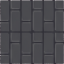
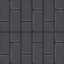
Force tile alpha to 255 and despill purple shadows over the whole sprite
Tile PNGs (wall/floor_a/floor_b) came out of Resample with partial-alpha
edge pixels since alpha is averaged straight, letting the camera
background show through as a seam grid. Add SpriteSheetSlicer.Opaque and
apply it after Resample for tiles only.

The despill colour guard already identifies magenta-biased pixels
correctly but was confined to a band near transparency, missing the
purple foot-shadow blob that sits deep in the player sprites' interior.
Add an explicit despillWholeSprite option (default on) that runs the
same colour-safe guard over every opaque pixel instead.

diff --git a/Assets/Tests/EditMode/SpriteSheetSlicerTests.cs b/Assets/Tests/EditMode/SpriteSheetSlicerTests.cs
@@ -187,6 +187,65 @@ namespace Sokoban.Tests
         }
 
         [Test]
+        public void Despill_WholeSprite_ReachesPixelsFarFromTheEdge()
+        {
+            // Cùng thiết lập với Despill_DoesNotTouchPixelsAwayFromTheEdge, nhưng bật
+            // wholeSprite: pixel giữa ảnh giờ phải bị chạm dù cách mép trong suốt xa hơn band.
+            var buf = new PixelBuffer(12, 12);
+            Fill(buf, new RectInt(0, 0, 12, 12), new Color32(200, 80, 200, 255));
+            Fill(buf, new RectInt(0, 0, 1, 12), new Color32(0, 0, 0, 0));
+
+            SpriteSheetSlicer.Despill(buf, band: 2, tolerance: 8, wholeSprite: true);
+
+            Assert.LessOrEqual(buf.Get(6, 6).r, 88,
+                "wholeSprite bỏ giới hạn band, chạm cả pixel nằm sâu giữa ảnh");
+        }
+
+        [Test]
+        public void Despill_WholeSprite_StillLeavesRedAndWhiteAndGreyAlone()
+        {
+            var buf = new PixelBuffer(12, 12);
+            Fill(buf, new RectInt(0, 0, 4, 12), new Color32(200, 40, 40, 255));   // vòng đích đỏ
+            Fill(buf, new RectInt(4, 0, 4, 12), new Color32(250, 250, 250, 255)); // sơ mi trắng
+            Fill(buf, new RectInt(8, 0, 4, 12), new Color32(140, 140, 140, 255)); // đá/mũ xám
+            Fill(buf, new RectInt(0, 0, 1, 12), new Color32(0, 0, 0, 0));         // một mép trong suốt
+
+            SpriteSheetSlicer.Despill(buf, band: 2, tolerance: 8, wholeSprite: true);
+
+            Assert.AreEqual(200, buf.Get(2, 6).r, "đỏ có lam thấp, không bị đụng dù quét cả sprite");
+            Assert.AreEqual(250, buf.Get(6, 6).r, "trắng có r=g=b, không bị đụng");
+            Assert.AreEqual(140, buf.Get(10, 6).r, "xám có r=g=b, không bị đụng");
+        }
+
+        [Test]
+        public void Despill_DefaultsToBandedBehaviour_WhenWholeSpriteOmitted()
+        {
+            // Gọi đúng 3 tham số như trước khi có wholeSprite — các lời gọi cũ không được đổi hành vi.
+            var buf = new PixelBuffer(12, 12);
+            Fill(buf, new RectInt(0, 0, 12, 12), new Color32(200, 80, 200, 255));
+            Fill(buf, new RectInt(0, 0, 1, 12), new Color32(0, 0, 0, 0));
+
+            SpriteSheetSlicer.Despill(buf, band: 2, tolerance: 8);
+
+            Assert.AreEqual(200, buf.Get(6, 6).r, "không truyền wholeSprite thì mặc định false, hành vi banded cũ");
+        }
+
+        [Test]
+        public void Opaque_ForcesAlphaTo255_KeepsColour()
+        {
+            var buf = new PixelBuffer(2, 1);
+            buf.Set(0, 0, new Color32(200, 100, 50, 130)); // mép tile lỡ nửa đục nửa trong sau Resample
+            buf.Set(1, 0, new Color32(10, 20, 30, 0));     // thậm chí trong suốt hoàn toàn
+
+            var opaque = SpriteSheetSlicer.Opaque(buf);
+
+            Assert.AreEqual(255, opaque.Get(0, 0).a);
+            Assert.AreEqual(255, opaque.Get(1, 0).a, "kể cả pixel vốn trong suốt cũng bị ép đục");
+            Assert.AreEqual(200, opaque.Get(0, 0).r, "màu giữ nguyên");
+            Assert.AreEqual(20, opaque.Get(1, 0).g, "màu giữ nguyên");
+        }
+
+        [Test]
         public void Resample_AveragesEachBlock()
         {
             var buf = new PixelBuffer(4, 4);

diff --git a/Assets/Editor/SpriteSheetSlicer.cs b/Assets/Editor/SpriteSheetSlicer.cs
@@ -135,8 +135,14 @@ namespace Sokoban.EditorTools
         /// hẳn lục thì hạ hai kênh đó xuống ngang lục. Chỉ chạm dải mép nên phần trong ruột
         /// của vật thể không bị đụng, và điều kiện "cả đỏ lẫn lam" chừa lại màu đỏ thuần
         /// của vòng đích cùng màu trắng của sơ mi.
+        ///
+        /// wholeSprite bỏ hẳn giới hạn dải mép, áp bộ lọc màu cho MỌI pixel đục — dùng khi
+        /// mảng ám nằm sâu trong ruột vật thể (như bóng tím dưới chân nhân vật), quá xa mép
+        /// trong suốt để band nào vét tới. An toàn cho cả bảng màu vì bộ lọc "cả đỏ lẫn lam
+        /// đều vượt hẳn lục" đã tự loại đá xám (r=g=b), sơ mi trắng (r=g=b), gỗ/da/đỏ (lam
+        /// thấp) — chỉ những pixel thật sự ám hồng/tím mới bị hạ.
         /// </summary>
-        public static void Despill(PixelBuffer buf, int band, int tolerance)
+        public static void Despill(PixelBuffer buf, int band, int tolerance, bool wholeSprite = false)
         {
             var original = (Color32[])buf.Pixels.Clone();
 
@@ -145,7 +151,7 @@ namespace Sokoban.EditorTools
                 {
                     var c = original[y * buf.Width + x];
                     if (c.a == 0) continue;
-                    if (!NearTransparent(original, buf.Width, buf.Height, x, y, band)) continue;
+                    if (!wholeSprite && !NearTransparent(original, buf.Width, buf.Height, x, y, band)) continue;
 
                     if (Mathf.Min(c.r, c.b) <= c.g + tolerance) continue;
 
@@ -238,6 +244,22 @@ namespace Sokoban.EditorTools
 
         static byte Scale(byte v, float factor) =>
             (byte)Mathf.Clamp(Mathf.RoundToInt(v * factor), 0, 255);
+
+        /// <summary>
+        /// Ép alpha về 255 trên toàn bộ buffer, giữ nguyên màu. Resample lấy trung bình alpha
+        /// thẳng nên rìa một ô tile (vốn phải phủ kín, không có lỗ) có thể hụt xuống dưới 255
+        /// dù màu đã đúng — dùng hàm này sau Resample để ép tile về phủ kín thật sự.
+        /// </summary>
+        public static PixelBuffer Opaque(PixelBuffer src)
+        {
+            var dst = new PixelBuffer(src.Width, src.Height);
+            for (int i = 0; i < src.Pixels.Length; i++)
+            {
+                var c = src.Pixels[i];
+                dst.Pixels[i] = new Color32(c.r, c.g, c.b, 255);
+            }
+            return dst;
+        }
 
         /// <summary>Pha màu về phía tint, giữ nguyên alpha. Dùng để đánh dấu hộp đã vào đích.</summary>
         public static PixelBuffer Tint(PixelBuffer src, Color32 tint, float amount)

diff --git a/Assets/Editor/ModernArtImporter.cs b/Assets/Editor/ModernArtImporter.cs
@@ -24,6 +24,13 @@ namespace Sokoban.EditorTools
         public int despillBand = 3;
         public int despillTolerance = 8;
 
+        // Nhân vật còn một mảng bóng tím đặc (rgba quanh (172,87,161,255)) dưới chân, nằm sâu
+        // trong ruột sprite — đo trực tiếp trên sheet gốc thì mảng này rộng hàng chục pixel,
+        // ngoài tầm mọi band hợp lý. Bật tràn toàn sprite: bộ lọc màu của Despill tự loại đá
+        // xám, mũ xám, sơ mi trắng (r=g=b) và gỗ/da/đỏ/tông vàng box_on_goal (lam thấp), nên
+        // chỉ có mảng ám hồng/tím mới bị hạ về xám trung tính.
+        public bool despillWholeSprite = true;
+
         // Sàn Gemini vẽ ra còn sáng hơn tường (đo được 134.5 so với 124.2) nên gần như
         // không có tương phản. Hạ sáng để tách tường khỏi đường đi, và tiện lấy luôn
         // tông thứ hai cho ô caro.
@@ -160,13 +167,17 @@ namespace Sokoban.EditorTools
         {
             var cell = SpriteSheetSlicer.KeyOut(SpriteSheetSlicer.Crop(sheet, region),
                                                 s.backgroundTolerance);
-            SpriteSheetSlicer.Despill(cell, s.despillBand, s.despillTolerance);
+            SpriteSheetSlicer.Despill(cell, s.despillBand, s.despillTolerance, s.despillWholeSprite);
             return cell;
         }
 
-        /// <summary>Tile phải phủ kín ô, nên ép thẳng về 64x64 kể cả khi nguồn lệch vuông.</summary>
+        /// <summary>
+        /// Tile phải phủ kín ô, nên ép thẳng về 64x64 kể cả khi nguồn lệch vuông, rồi ép alpha
+        /// về 255 — Resample lấy trung bình alpha thẳng nên rìa ô có thể hụt xuống dưới 255 dù
+        /// màu đã đúng, để lộ nền camera qua khe ô trên bàn cờ.
+        /// </summary>
         static void WriteTile(string name, PixelBuffer content) =>
-            Write(name, SpriteSheetSlicer.Resample(content, OutSize, OutSize));
+            Write(name, SpriteSheetSlicer.Opaque(SpriteSheetSlicer.Resample(content, OutSize, OutSize)));
 
         /// <summary>
         /// Vật thể giữ tỉ lệ khung hình gốc và giữ đúng tương quan kích thước với ô tường,
